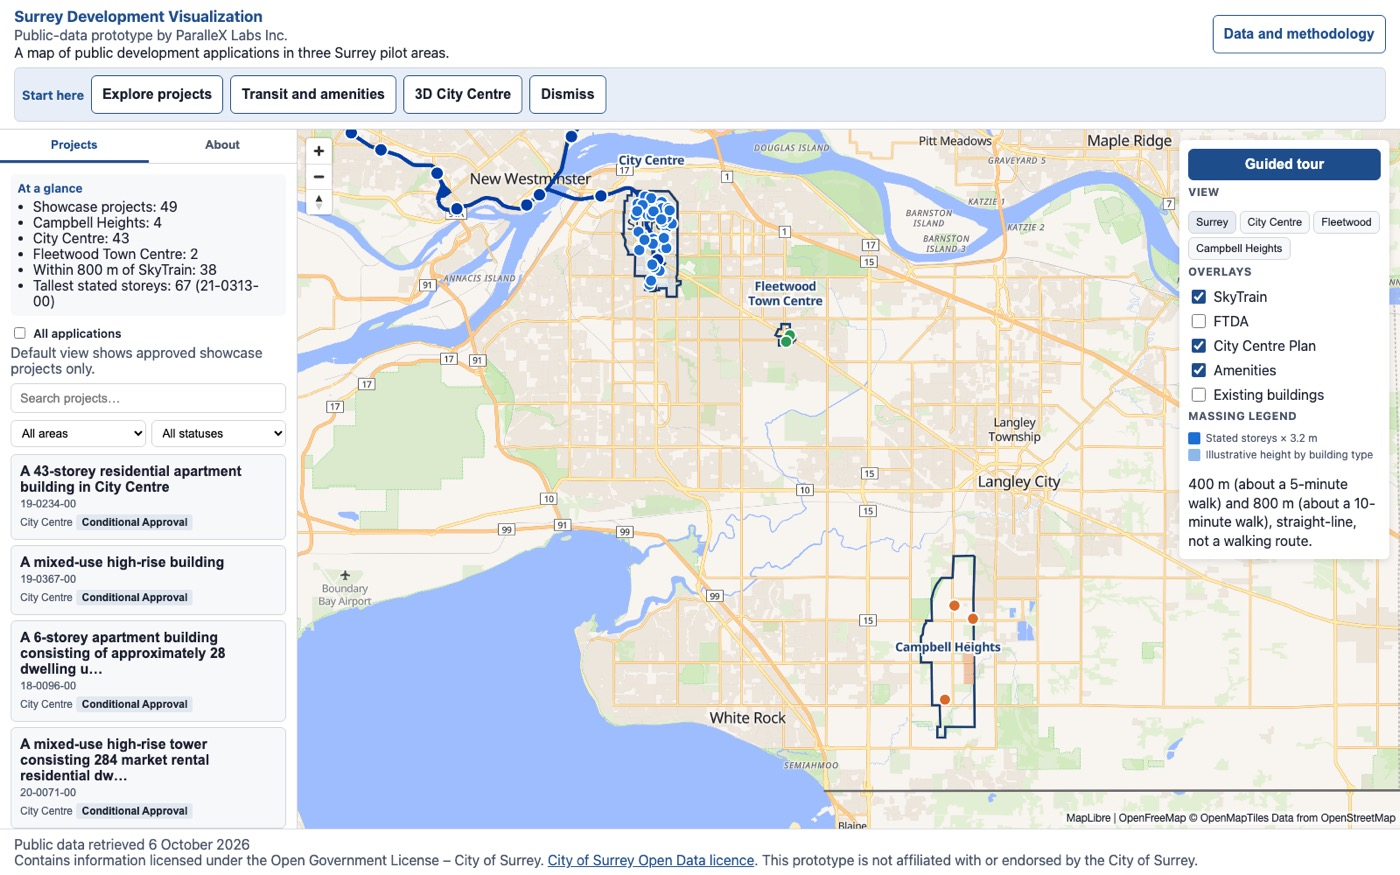
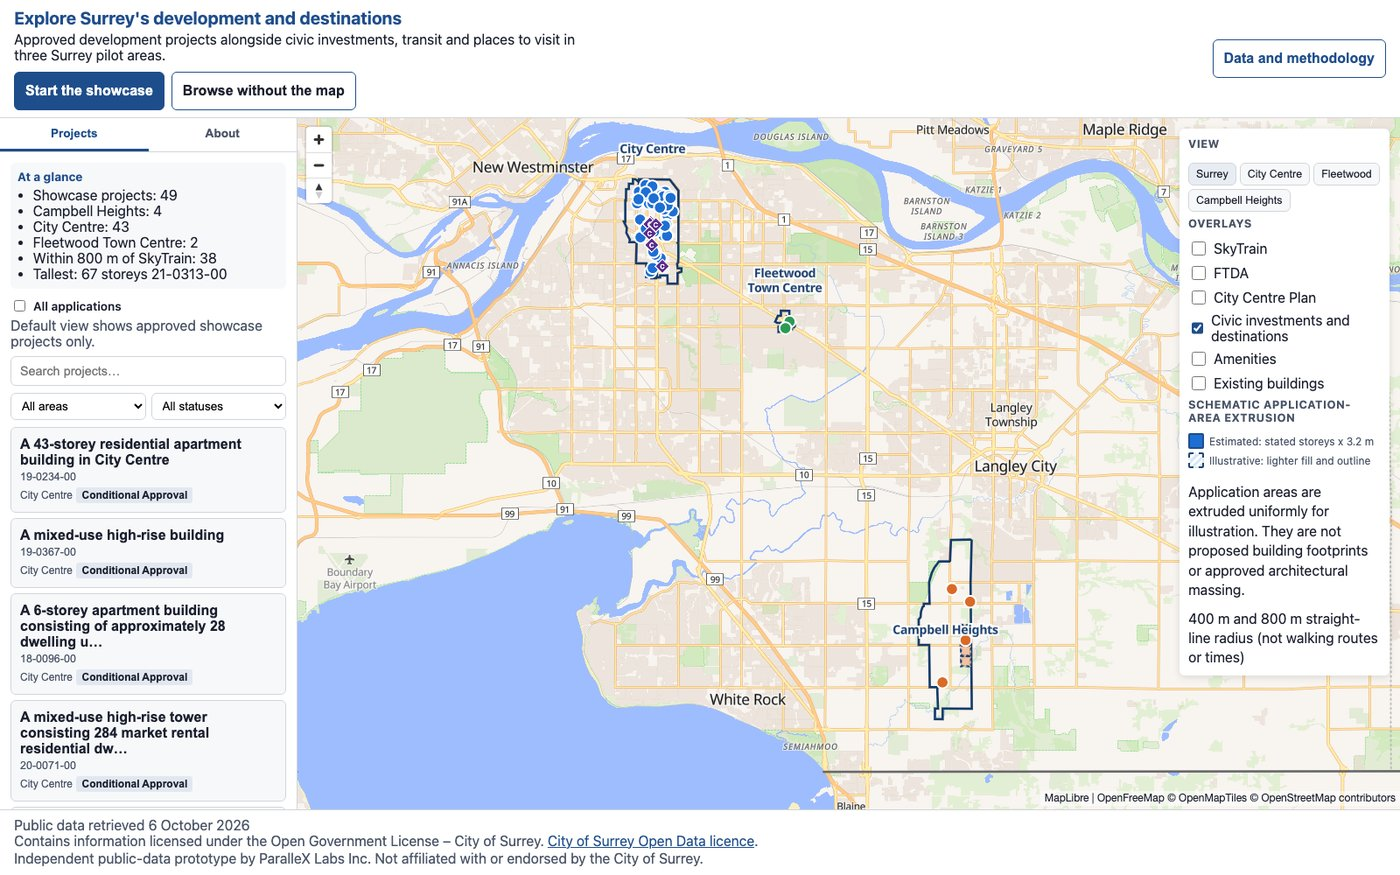
Refresh the README screenshots and record the published build in VERIFICATION.md.

diff --git a/VERIFICATION.md b/VERIFICATION.md
@@ -1,10 +1,10 @@
 # Verification
 
-Checked 6 October 2026 on the pass 10e working tree. Parent commit: `6aff88b4fe300ce3a8bb752bb5fcf2f8e8fd06c1`.
+Checked 6 October 2026. The unit, Python and end-to-end tests below were run again on the published source at commit `5486ff4` (later commits change only this file and the README screenshots). The axe scan, the Content Security Policy check and the load profile were measured on commit `9157223`; `5486ff4` changes two text strings only.
 
 **Live URL:** https://parallexlabs.ca/demos/surrey/
 
-This pass was not deployed. The live URL was not rebuilt from this tree.
+The live URL was rebuilt from this source and redeployed on 6 October 2026.
 
 ## Tests
 
@@ -52,7 +52,7 @@ Dates are the `retrieved_at` values in `public/data/SOURCES.json`. `civic_places
 
 ## Evidence
 
-Recorded after the checks above. Desktop frames are 1600×1000. The phone frame is the full page, 390×8062. Walkthrough: `evidence/walkthrough.mp4`, 27.36 seconds, 3,702,041 bytes.
+Recorded after the checks above. The evidence files are kept with the project records rather than in this repository; the README screenshots in `docs/` are taken from the same recording. Desktop frames are 1600×1000. The phone frame is the full page, 390×8062. Walkthrough: `evidence/walkthrough.mp4`, 27.36 seconds, 3,702,041 bytes.
 
 - `evidence/01-overview.png`
 - `evidence/02-city-centre-3d.png`
@@ -68,4 +68,3 @@ Recorded after the checks above. Desktop frames are 1600×1000. The phone frame 
 
 - No formal acceptance testing.
 - No manual screen-reader audit. The axe result is the automated check only.
-- Not deployed and not pushed.
